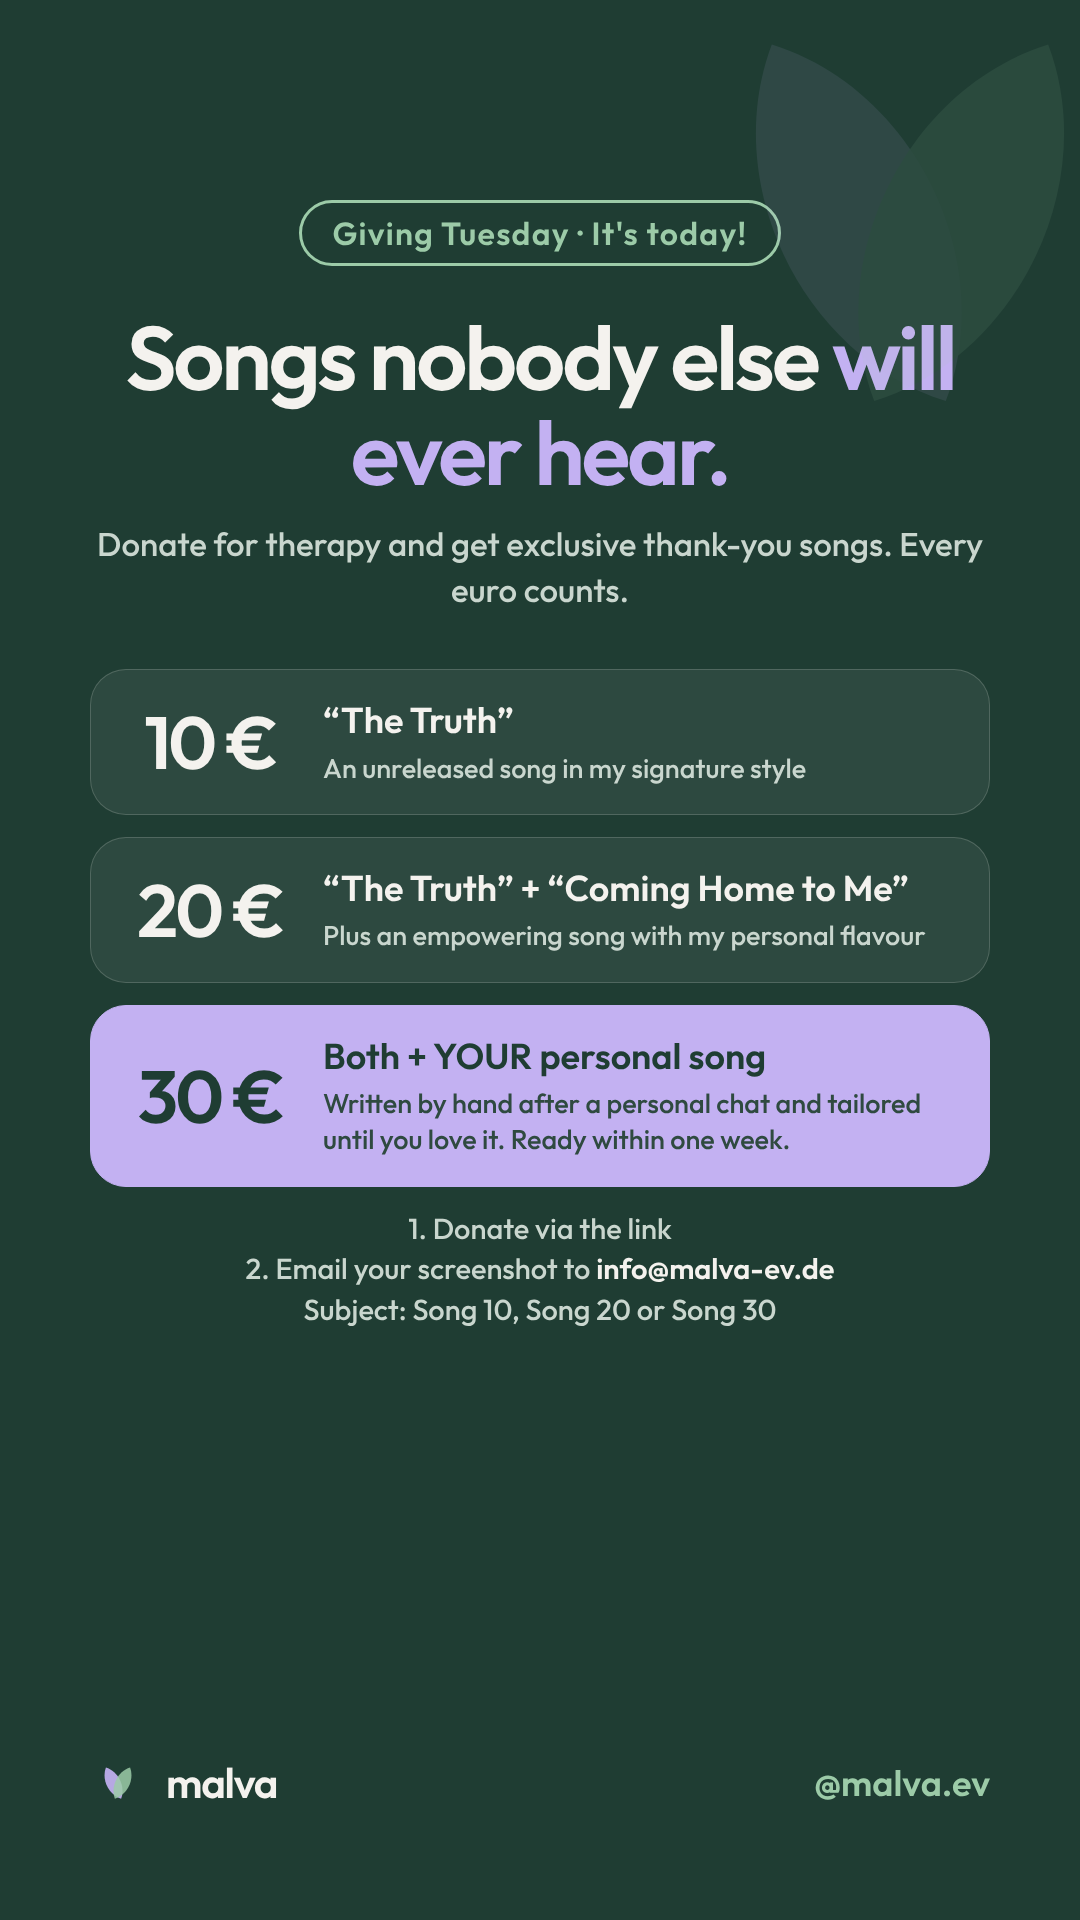
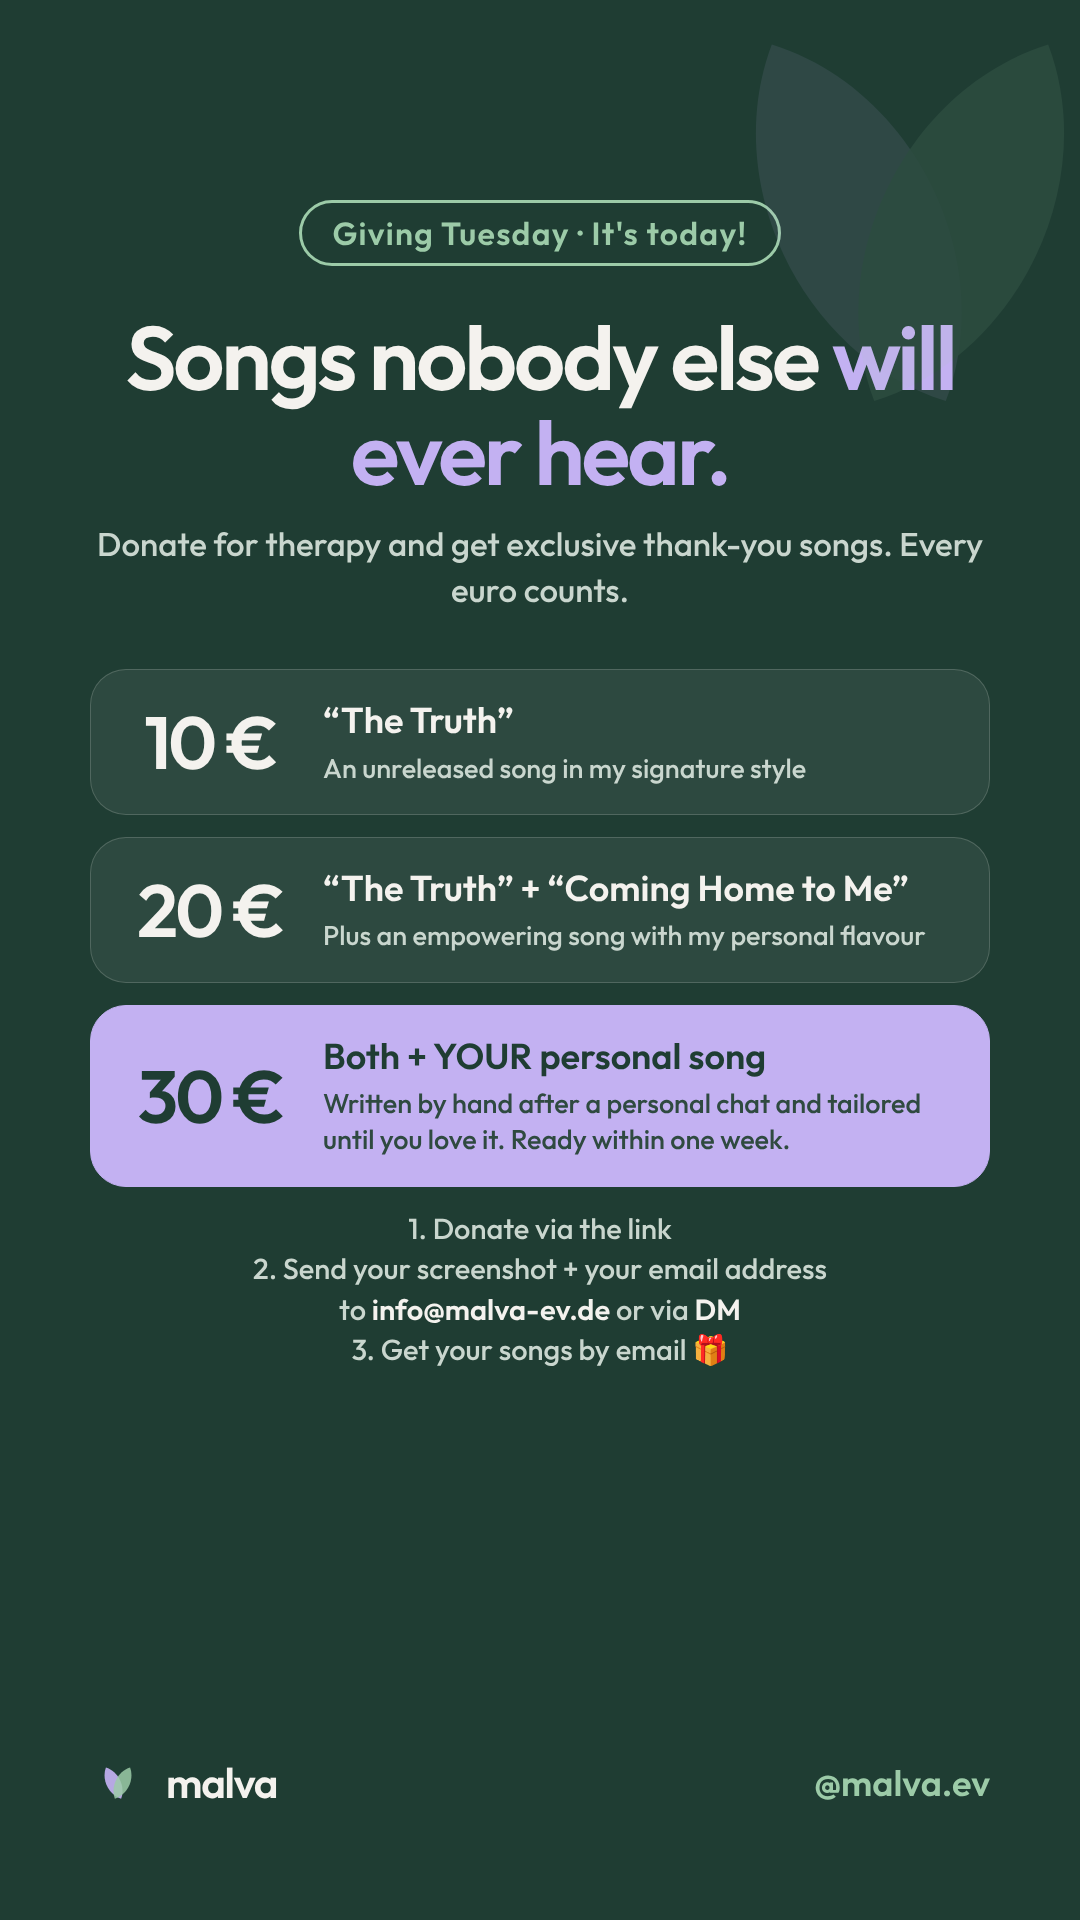
Giving Tuesday Start-Story: E-Mail oder DM
Claude-Session: https://claude.ai/code/session_015uEer6M6e5oi78ZvJtGjnt

Changed region(s): [[0.2444, 0.6562, 0.7639, 0.7188]]

diff --git a/malva-website/instagram/giving-tuesday/stories.html b/malva-website/instagram/giving-tuesday/stories.html
@@ -68,7 +68,7 @@ if(kind==='count'){
   <h1>Songs nobody else <span class="hl">will ever hear.</span></h1>
   <p class="de">Donate for therapy and get exclusive thank-you songs. Every euro counts.</p>
   ${tiers}
-  <p class="how">1. Donate via the link<br>2. Email your screenshot to <b>info@malva-ev.de</b><br>Subject: Song 10, Song 20 or Song 30</p>
+  <p class="how">1. Donate via the link<br>2. Send your screenshot + your email address<br>to <b>info@malva-ev.de</b> or via <b>DM</b><br>3. Get your songs by email 🎁</p>
   ${foot}</div>`;
 } else if(kind==='raised'){
   const big = amount ? `<div class="raised">${amount} €</div>` : `<div style="height:240px;margin-top:70px"></div>`;
